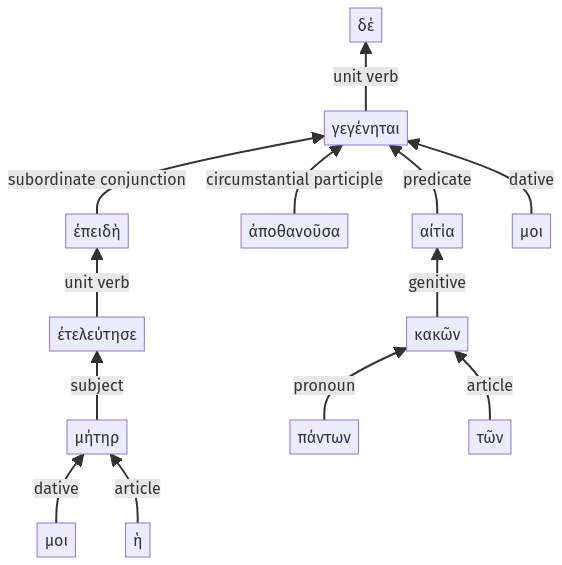
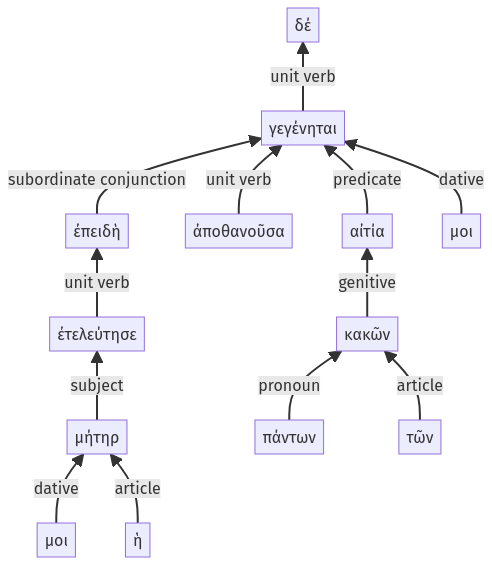
Data bugs

diff --git a/docs/lysias1/reader/1.7.17-1.7.29a.html b/docs/lysias1/reader/1.7.17-1.7.29a.html
@@ -1,10 +1,10 @@
 <html>
 <head>
-<title>Lysias 1,  1.7.17-1.7.29a</title>
+<title>Lysias, Oration 1,  1.7.17-1.7.29a</title>
 <link rel="stylesheet" href="syntax.css">
 <link rel="stylesheet" href="page.css">
 </head>
-<body><h1>Lysias 1,  1.7.17-1.7.29a</h1>
+<body><h1>Lysias, Oration 1,  1.7.17-1.7.29a</h1>
 
 <p class="nav"><a href="./1.7.6-1.7.16a.html">1.7.6-1.7.16a</a> | <a href="./1.8.1-1.8.15a.html">1.8.1-1.8.15a</a></p>
 
@@ -15,9 +15,9 @@
  <span  >ἐπειδὴ</span> <span  >δέ</span> <span  >μοι</span> <span  >ἡ</span> <span  >μήτηρ</span> <span  >ἐτελεύτησε</span>, <span  >πάντων</span> <span  >τῶν</span> <span  >κακῶν</span> <span  >ἀποθανοῦσα</span> <span  >αἰτία</span> <span  >μοι</span> <span  >γεγένηται</span>.
 </div>
 
-<div class="passage"><div class="passage"><blockquote class="subordination"><blockquote class="subordination"><blockquote class="subordination"><span class="ref">2</span>   <span class="" >ἐπειδὴ</span> <span class="" >μοι</span> <span class="" >ἡ</span> <span class="subject" >μήτηρ</span> <span class="verb" >ἐτελεύτησε</span></blockquote></blockquote><blockquote class="subordination"><span class="ref">1</span>   <span class="" >πάντων</span> <span class="" >τῶν</span> <span class="" >κακῶν</span></blockquote><blockquote class="subordination"><blockquote class="subordination"><span class="ref">2</span>   <span class="" >ἀποθανοῦσα</span></blockquote></blockquote><blockquote class="subordination"><span class="ref">1</span>   <span class="" >αἰτία</span> <span class="" >μοι</span> <span class="verb" >γεγένηται</span></blockquote></div></div>
+<div class="passage"><div class="passage"><blockquote class="subordination"><blockquote class="subordination"><blockquote class="subordination"><span class="ref">2</span>   <span class="" >ἐπειδὴ</span> <span class="" >μοι</span> <span class="" >ἡ</span> <span class="subject" >μήτηρ</span> <span class="verb" >ἐτελεύτησε</span></blockquote></blockquote><blockquote class="subordination"><span class="ref">1</span>   <span class="" >πάντων</span> <span class="" >τῶν</span> <span class="" >κακῶν</span></blockquote><blockquote class="subordination"><blockquote class="subordination"><span class="ref">2</span>   <span class="verb" >ἀποθανοῦσα</span></blockquote></blockquote><blockquote class="subordination"><span class="ref">1</span>   <span class="" >αἰτία</span> <span class="" >μοι</span> <span class="verb" >γεγένηται</span></blockquote></div></div>
 
-<div class="passage"> <span class="" style="color: #E5B36A">ἐπειδὴ</span> <span class="connector" >δέ</span> <span class="" style="color: #E5B36A">μοι</span> <span class="" style="color: #E5B36A">ἡ</span> <span class="subject" style="color: #E5B36A">μήτηρ</span> <span class="verb" style="color: #E5B36A">ἐτελεύτησε</span>, <span class="" style="color: #79A6A3">πάντων</span> <span class="" style="color: #79A6A3">τῶν</span> <span class="" style="color: #79A6A3">κακῶν</span> <span class="" style="color: #C7D7CA">ἀποθανοῦσα</span> <span class="" style="color: #79A6A3">αἰτία</span> <span class="" style="color: #79A6A3">μοι</span> <span class="verb" style="color: #79A6A3">γεγένηται</span>.</div>
+<div class="passage"> <span class="" style="color: #E5B36A">ἐπειδὴ</span> <span class="connector" >δέ</span> <span class="" style="color: #E5B36A">μοι</span> <span class="" style="color: #E5B36A">ἡ</span> <span class="subject" style="color: #E5B36A">μήτηρ</span> <span class="verb" style="color: #E5B36A">ἐτελεύτησε</span>, <span class="" style="color: #79A6A3">πάντων</span> <span class="" style="color: #79A6A3">τῶν</span> <span class="" style="color: #79A6A3">κακῶν</span> <span class="verb" style="color: #C7D7CA">ἀποθανοῦσα</span> <span class="" style="color: #79A6A3">αἰτία</span> <span class="" style="color: #79A6A3">μοι</span> <span class="verb" style="color: #79A6A3">γεγένηται</span>.</div>
 
 <div class="key right"><strong>Highlighting</strong>:<ul>
 <li><span class="connector">connecting words</span>
@@ -35,5 +35,5 @@
 
 <div class="diagram"><img src="pngs/sentence_14.png" alt="Syntax diagram, sentence 14"/></div>
 
-<footer>Site created by <code>syntaxsite.jl</code>, version 1.0.1, on January 9, 2023.</footer></body>
+<footer>Site created by <code>syntaxsite.jl</code>, version 1.0.1, on January 10, 2023.</footer></body>
 </html>
